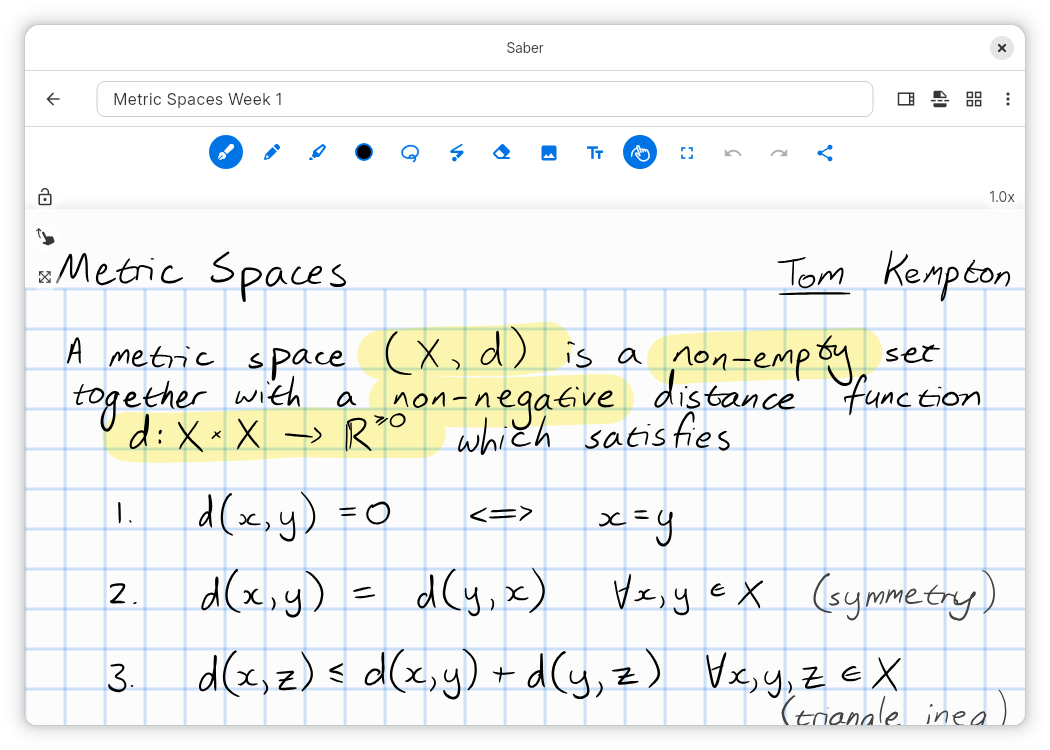
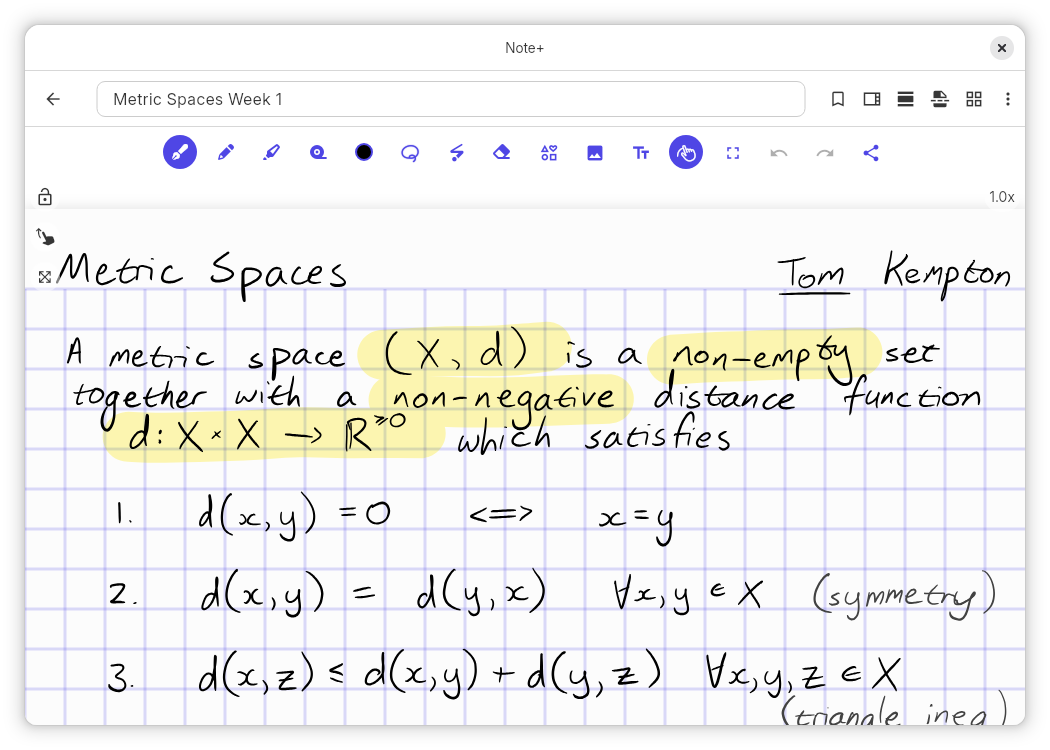
fix: measure the page for collaborators' cursors only once laid out; refresh goldens for Note+

diff --git a/lib/pages/editor/editor.dart b/lib/pages/editor/editor.dart
@@ -350,6 +350,22 @@ class EditorState extends State<Editor> {
     setState(() {});
   }
 
+  /// How big [page] is on screen, zoom and fitting to the screen included.
+  double _onScreenScaleOf(EditorPage page) {
+    final fallback = _transformationController.value.approxScale;
+    final box = page.renderBox;
+    if (box == null || !box.attached || !box.hasSize) return fallback;
+    try {
+      return (box.localToGlobal(const Offset(100, 0)) -
+                  box.localToGlobal(Offset.zero))
+              .distance /
+          100;
+    } catch (e) {
+      // the page is being laid out again
+      return fallback;
+    }
+  }
+
   /// Where the other people who have this note open are, by their device.
   final _presences = ValueNotifier(<String, _Presence>{});
   Timer? _presenceCleanupTimer;
@@ -2558,15 +2574,7 @@ class EditorState extends State<Editor> {
       overlay: ValueListenableBuilder(
         valueListenable: _presences,
         builder: (context, presences, _) => RemoteCursors(
-          // how big the page is on screen, zoom and fitting included
-          scale: switch (page.renderBox) {
-            final box? when box.attached =>
-              (box.localToGlobal(const Offset(100, 0)) -
-                          box.localToGlobal(Offset.zero))
-                      .distance /
-                  100,
-            _ => _transformationController.value.approxScale,
-          },
+          scale: presences.isEmpty ? 1 : _onScreenScaleOf(page),
           cursors: [
             for (final MapEntry(key: from, value: presence)
                 in presences.entries)

diff --git a/test/screenshot_goldens_test.dart b/test/screenshot_goldens_test.dart
@@ -7,6 +7,7 @@ import 'package:golden_screenshot/golden_screenshot.dart';
 import 'package:saber/components/canvas/pencil_shader.dart';
 import 'package:saber/components/home/syncing_button.dart';
 import 'package:saber/components/settings/nextcloud_profile.dart';
+import 'package:saber/components/theming/dynamic_material_app.dart';
 import 'package:saber/components/theming/saber_theme.dart';
 import 'package:saber/data/file_manager/file_manager.dart';
 import 'package:saber/data/flavor_config.dart';
@@ -17,7 +18,6 @@ import 'package:saber/i18n/strings.g.dart';
 import 'package:saber/pages/editor/editor.dart';
 import 'package:saber/pages/home/home.dart';
 import 'package:saber/pages/user/login.dart';
-import 'package:yaru/yaru.dart';
 
 import 'utils/test_mock_channel_handlers.dart';
 import 'utils/test_user.dart';
@@ -77,7 +77,7 @@ void main() {
       await setupDemoFiles();
     });
 
-    const seedColor = YaruColors.blue;
+    const seedColor = DynamicMaterialApp.brandColor;
     final materialTheme = SaberTheme.createThemeFromSeed(
       seedColor,
       .light,
@@ -184,7 +184,7 @@ void _screenshot({
           theme: theme,
           device: device,
           frameColors: frameColors,
-          title: 'Saber',
+          title: 'Note+',
           home: TranslationProvider(child: child),
         );
         await tester.pumpWidget(widget);

diff --git a/test/home_subpage_transition_test.dart b/test/home_subpage_transition_test.dart
@@ -31,7 +31,7 @@ void main() {
         addTearDown(router.dispose);
         await tester.pumpWidget(
           MaterialApp.router(
-            title: 'Saber',
+            title: 'Note+',
             routeInformationProvider: router.routeInformationProvider,
             routeInformationParser: router.routeInformationParser,
             routerDelegate: router.routerDelegate,
@@ -43,7 +43,7 @@ void main() {
         await tester.pump(const Duration(milliseconds: 150));
 
         expect(
-          [find.text('Welcome to Saber'), find.text('Logged out')],
+          [find.text('Welcome to Note+'), find.text('Logged out')],
           [findsOneWidget, findsOneWidget],
         );
       });

diff --git a/test/version_test.dart b/test/version_test.dart
@@ -111,8 +111,10 @@ void main() {
   });
 
   test('Test that changelog has been translated', () {
+    // Note+ has store texts in the languages that have a metadata folder
     for (final localeCode in localeNames.keys) {
       if (localeCode == 'en') continue;
+      if (!Directory('metadata/$localeCode').existsSync()) continue;
 
       final file = File('metadata/$localeCode/changelogs/$buildNumber.txt');
       expect(

diff --git a/test/browse_page_test.dart b/test/browse_page_test.dart
@@ -66,7 +66,7 @@ class _BrowseApp extends StatelessWidget {
     BrowsePage.overrideChildren = children;
     return ScreenshotApp.withConditionalTitlebar(
       device: GoldenSmallDevices.androidPhone.device,
-      title: 'Saber',
+      title: 'Note+',
       theme: SaberTheme.createThemeFromSeed(Colors.yellow, .light, .android),
       home: BrowsePage(path: path),
     );

diff --git a/test/home_theme_test.dart b/test/home_theme_test.dart
@@ -22,7 +22,7 @@ void main() {
           await tester.pumpWidget(
             ScreenshotApp.withConditionalTitlebar(
               device: GoldenScreenshotDevices.androidPhone.device,
-              title: 'Saber',
+              title: 'Note+',
               theme: theme,
               home: Theme(
                 data: theme,

diff --git a/test/sentry_consent_dialog_test.dart b/test/sentry_consent_dialog_test.dart
@@ -17,7 +17,7 @@ void main() {
       await tester.pumpWidget(
         ScreenshotApp.withConditionalTitlebar(
           device: GoldenSmallDevices.androidPhone.device,
-          title: 'Saber',
+          title: 'Note+',
           home: const HomePage(subpage: HomePage.settingsSubpage, path: ''),
         ),
       );

diff --git a/test/home_simplified_layout_test.dart b/test/home_simplified_layout_test.dart
@@ -37,7 +37,7 @@ void main() {
 
       final widget = ScreenshotApp.withConditionalTitlebar(
         device: device,
-        title: 'Saber',
+        title: 'Note+',
         home: TranslationProvider(
           child: const HomePage(subpage: HomePage.recentSubpage, path: ''),
         ),

diff --git a/test/logs_page_test.dart b/test/logs_page_test.dart
@@ -72,7 +72,7 @@ class _LogsApp extends StatelessWidget {
   Widget build(BuildContext context) {
     return ScreenshotApp.withConditionalTitlebar(
       device: GoldenSmallDevices.androidPhone.device,
-      title: 'Saber',
+      title: 'Note+',
       home: const LogsPage(),
     );
   }

diff --git a/test/login_golden_test.dart b/test/login_golden_test.dart
@@ -76,7 +76,7 @@ class _LoginApp extends StatelessWidget {
     return ScreenshotApp.withConditionalTitlebar(
       theme: _theme,
       device: _device,
-      title: 'Saber',
+      title: 'Note+',
       home: NcLoginPage(forceAppBarLeading: true, forceCurrentStep: step),
     );
   }

diff --git a/test/browse_navigation_test.dart b/test/browse_navigation_test.dart
@@ -82,7 +82,7 @@ class _BrowseApp extends StatelessWidget {
     );
     return TranslationProvider(
       child: ExplicitlyThemedApp(
-        title: 'Saber',
+        title: 'Note+',
         router: router,
         themeMode: ThemeMode.light,
         theme: theme,
